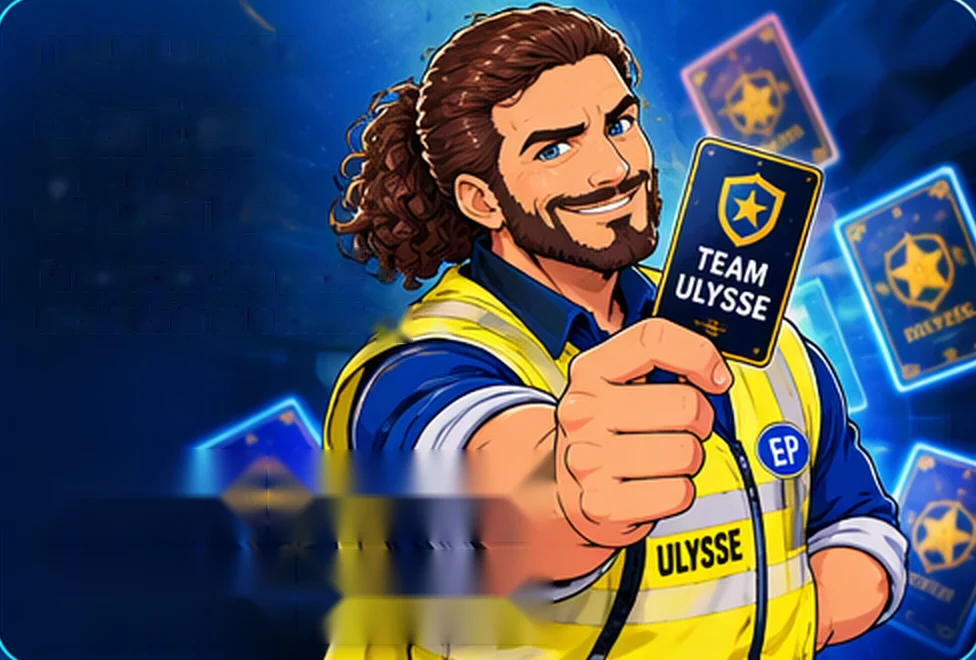
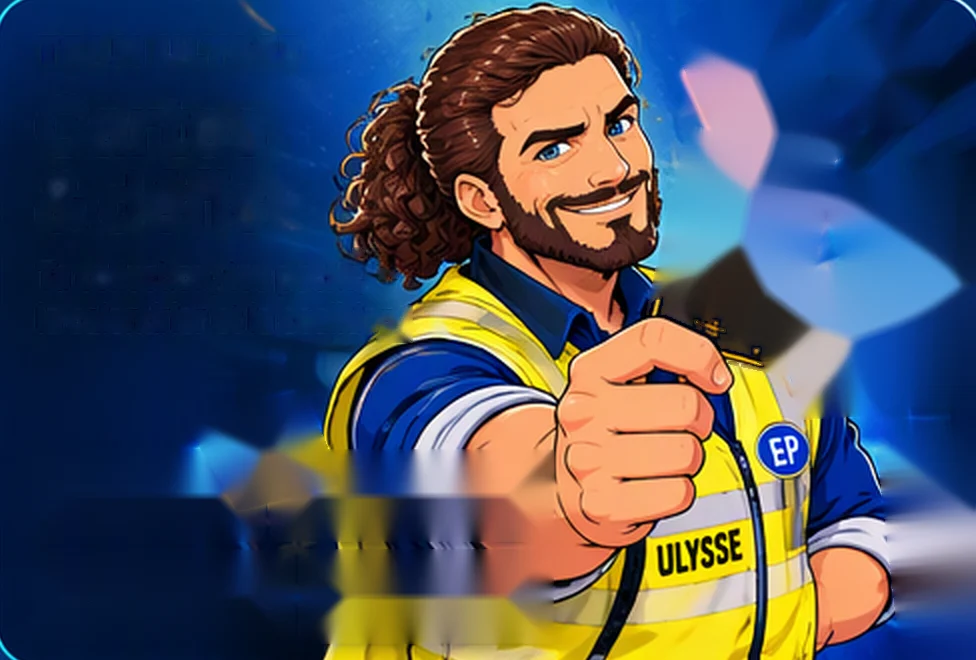
Portail : fond blanc, Ulysse tient la vraie carte « Ulysse, gardien de la Team » entouré de vraies cartes du jeu
Claude-Session: https://claude.ai/code/session_01UTW3MaXuG19g7RtJo149UJ

Changed region(s): [[0.6455, 0.0, 1.0, 0.6364], [0.8914, 0.6667, 1.0, 1.0], [0.1844, 0.5758, 0.3381, 0.7879]]

diff --git a/src/pages/Portail.tsx b/src/pages/Portail.tsx
@@ -18,9 +18,11 @@ import {
   type LucideIcon,
 } from 'lucide-react';
 import { motion } from 'motion/react';
-import type { ReactNode } from 'react';
+import { useEffect, useRef, useState, type ReactNode } from 'react';
 import { Link } from 'react-router';
 import { BanniereEvacuation } from '../components/BanniereEvacuation';
+import { CardFace } from '../components/cards/GameCard';
+import { CARDS } from '../content/cards';
 import { useIdentite } from '../data/identite';
 
 const BASE = import.meta.env.BASE_URL;
@@ -140,10 +142,99 @@ function Carte({
   );
 }
 
+/** Vraies cartes du jeu autour d'Ulysse : [id, centre x, centre y, largeur (px de l'image), rotation]. */
+const CARTES_SCENE: [string, number, number, number, number][] = [
+  ['sst', 760, 96, 118, -14],
+  ['chaussures', 888, 300, 128, 12],
+  ['extincteur-co2', 950, 585, 118, -8],
+  ['evacuation', 262, 452, 104, -12],
+];
+const L_IMG = 976;
+const H_IMG = 660;
+const LARGEUR_CARTE = 132; // largeur de rendu d'une carte « sm », ensuite réduite
+
+function CarteDuJeu({
+  id,
+  x,
+  y,
+  l,
+  rot,
+  echelle,
+  flotte,
+}: {
+  id: string;
+  x: number;
+  y: number;
+  l: number;
+  rot: number;
+  echelle: number;
+  flotte?: boolean;
+}) {
+  const carte = CARDS.find((c) => c.id === id);
+  if (!carte || !echelle) return null;
+  const k = (l * echelle) / LARGEUR_CARTE;
+  return (
+    <span
+      className={`absolute ${flotte ? 'pt-flotte' : ''}`}
+      style={{ left: `${(x / L_IMG) * 100}%`, top: `${(y / H_IMG) * 100}%` }}
+    >
+      <span
+        className="block"
+        style={{
+          width: LARGEUR_CARTE,
+          height: (LARGEUR_CARTE * 7) / 5,
+          transform: `translate(-50%, -50%) rotate(${rot}deg) scale(${k})`,
+          filter: flotte ? 'drop-shadow(0 0 10px rgba(90,162,255,.9)) blur(0.4px)' : undefined,
+          opacity: flotte ? 0.92 : 1,
+        }}
+      >
+        <CardFace card={carte} total={CARDS.length} size="sm" />
+      </span>
+    </span>
+  );
+}
+
+/** Ulysse tient la vraie carte « Ulysse, gardien de la Team », entouré de vraies cartes du jeu. */
+function SceneTeam() {
+  const ref = useRef<HTMLSpanElement>(null);
+  const [echelle, setEchelle] = useState(0);
+  useEffect(() => {
+    const el = ref.current;
+    if (!el) return;
+    const ro = new ResizeObserver(() => setEchelle(el.clientWidth / L_IMG));
+    ro.observe(el);
+    return () => ro.disconnect();
+  }, []);
+  return (
+    <span
+      ref={ref}
+      className="absolute top-0 left-1/2 h-full -translate-x-1/2"
+      style={{ aspectRatio: `${L_IMG} / ${H_IMG}` }}
+    >
+      <img src={`${BASE}portail/team.webp`} alt="" className="absolute inset-0 size-full" />
+      {CARTES_SCENE.map(([id, x, y, l, rot]) => (
+        <CarteDuJeu key={id} id={id} x={x} y={y} l={l} rot={rot} echelle={echelle} flotte />
+      ))}
+      <CarteDuJeu id="ulysse" x={742} y={250} l={150} rot={13} echelle={echelle} />
+      {/* Les doigts d'Ulysse passent devant la carte : il la tient vraiment. */}
+      <img
+        src={`${BASE}portail/main.webp`}
+        alt=""
+        className="absolute"
+        style={{
+          left: `${(570 / L_IMG) * 100}%`,
+          top: `${(300 / H_IMG) * 100}%`,
+          width: `${(190 / L_IMG) * 100}%`,
+        }}
+      />
+    </span>
+  );
+}
+
 export function Portail() {
   const { identite } = useIdentite();
   return (
-    <div className="min-h-dvh bg-[#0E2A5C]">
+    <div className="min-h-dvh bg-[#F4F6FA]">
       <BanniereEvacuation />
       <div className="mx-auto max-w-md px-4 pt-[max(1.25rem,env(safe-area-inset-top))] pb-8">
         <header className="mb-4 flex items-center gap-3">
@@ -153,10 +244,10 @@ export function Portail() {
             className="size-12 rounded-full bg-navy object-cover ring-2 ring-sun"
           />
           <div>
-            <h1 className="font-display text-[24px] leading-tight font-extrabold text-white">
+            <h1 className="font-display text-[24px] leading-tight font-extrabold text-navy-950">
               Bonjour {identite?.prenom ?? ''} 👋
             </h1>
-            <p className="text-sm text-white/70">Où veux-tu aller ?</p>
+            <p className="text-sm text-muted">Où veux-tu aller ?</p>
           </div>
         </header>
 
@@ -173,19 +264,7 @@ export function Portail() {
             </>
           }
           texte="Ta collection, tes packs, le calendrier et la coalition."
-          image={
-            <>
-              <img
-                src={`${BASE}portail/team.webp`}
-                alt=""
-                className="absolute inset-0 size-full object-cover"
-              />
-              {/* Reflet qui passe sur la carte tenue par Ulysse. */}
-              <span className="pt-reflet absolute top-[20%] left-[67%] h-[36%] w-[15%] rotate-[8deg] overflow-hidden rounded-md">
-                <span className="absolute inset-y-0 -left-full w-1/2 bg-gradient-to-r from-transparent via-white/60 to-transparent" />
-              </span>
-            </>
-          }
+          image={<SceneTeam />}
         >
           <Puces
             grille
